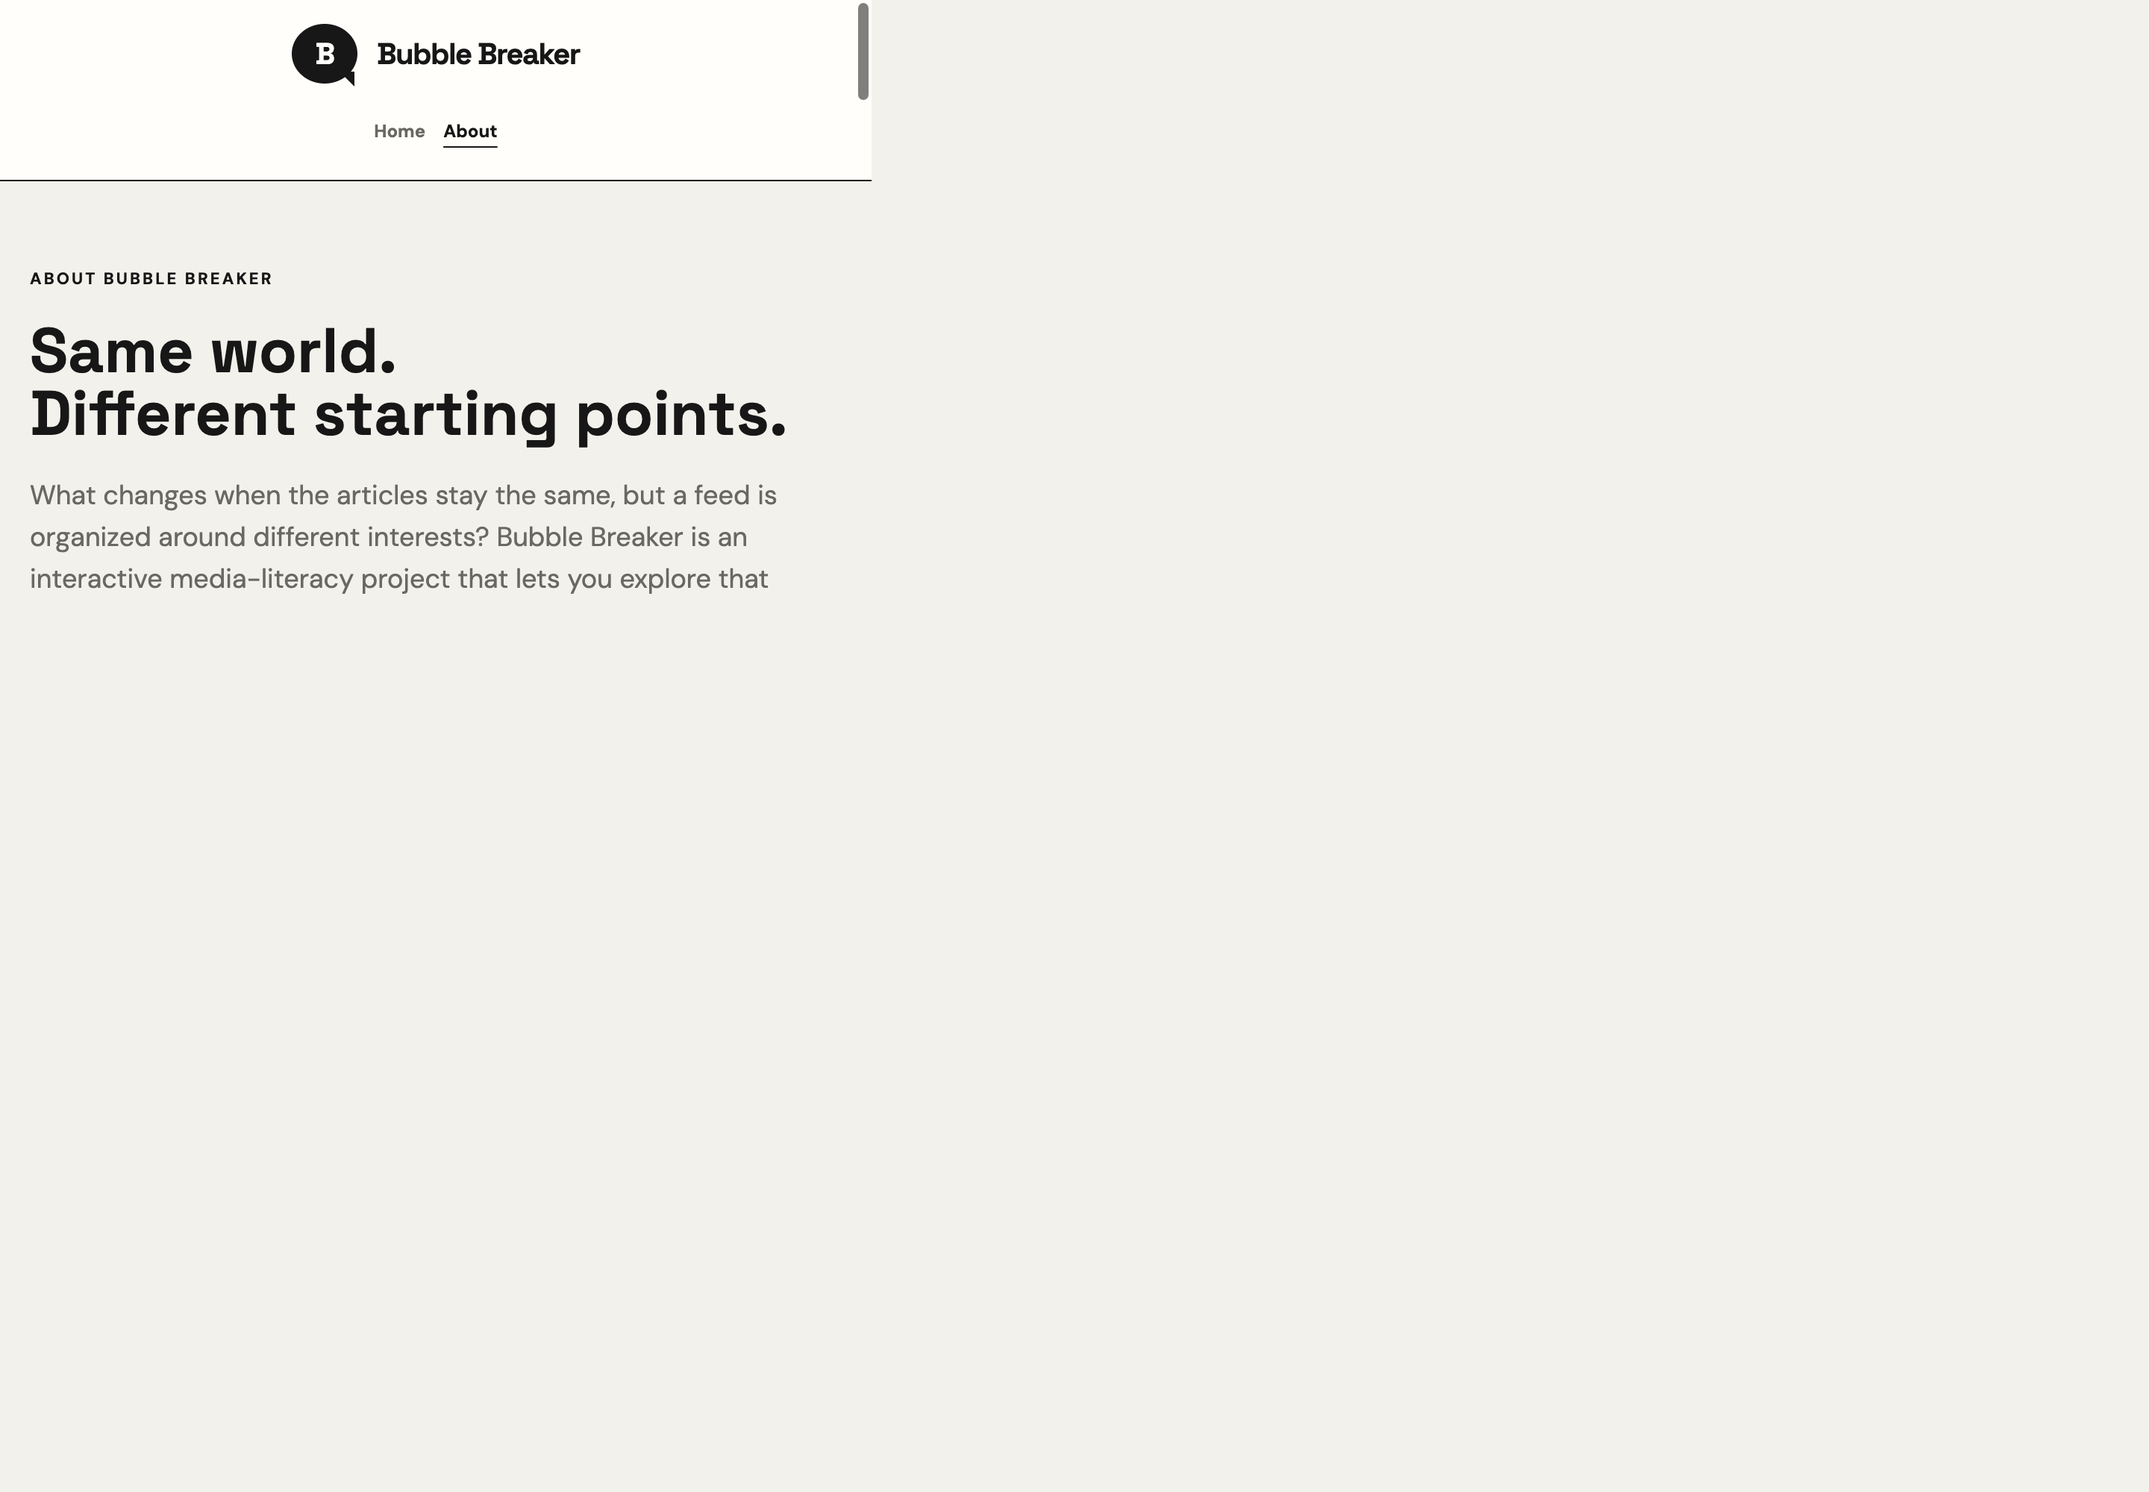
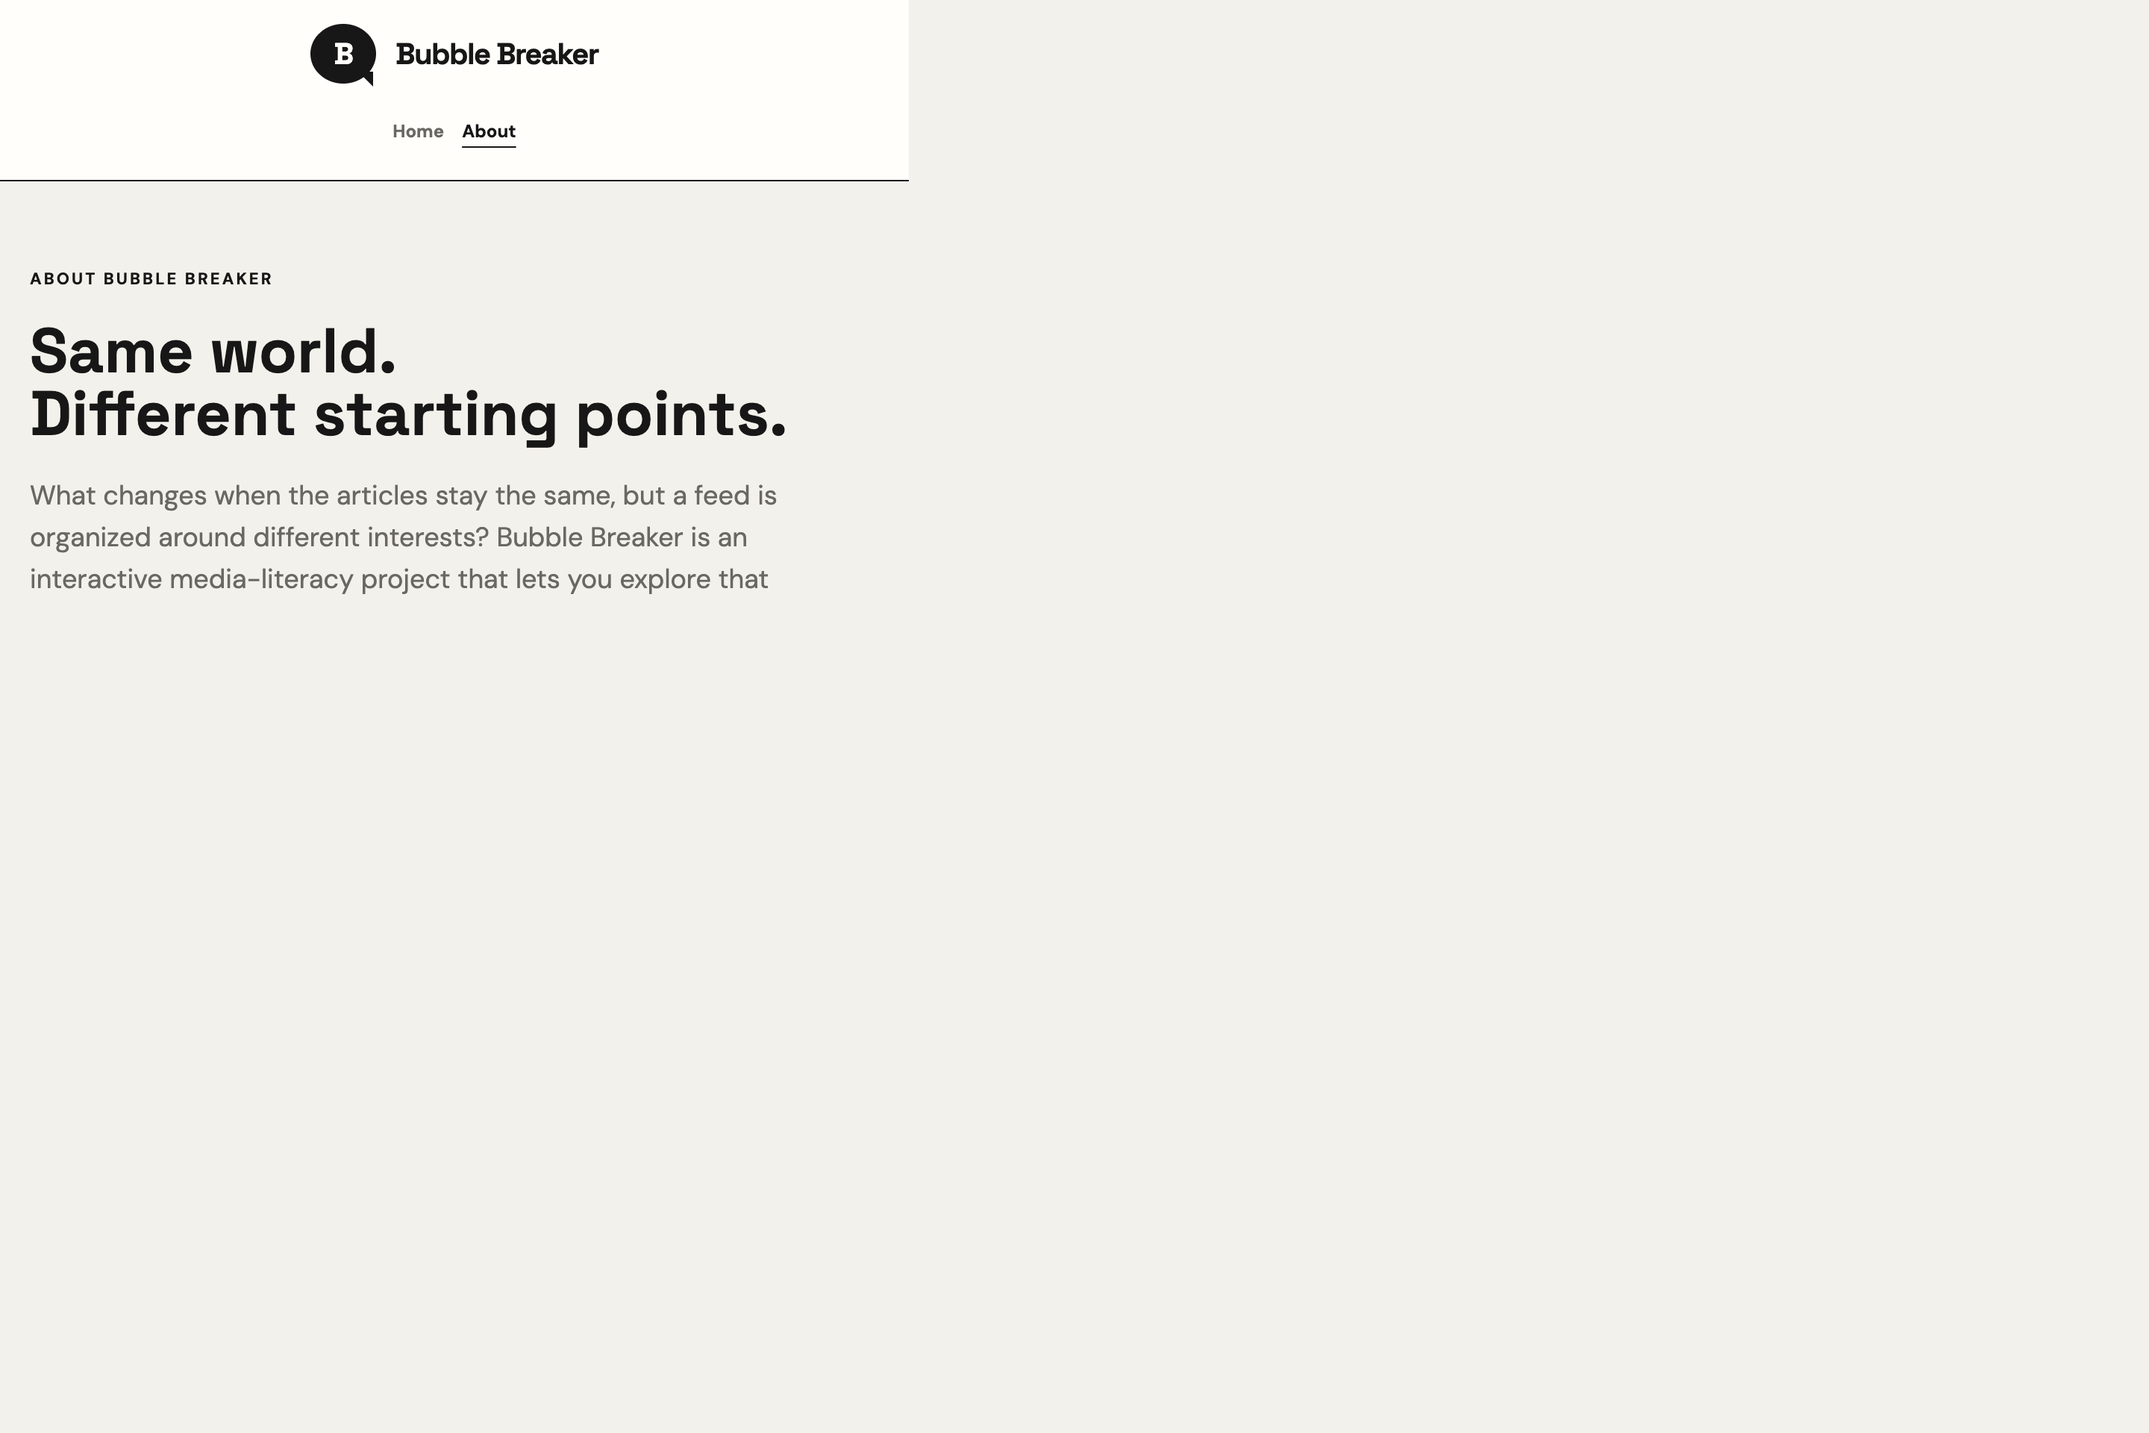
updated readme.md

Changed region(s): [[0.0, 0.1875, 0.375, 0.4062], [0.125, 0.0, 0.2812, 0.125], [0.375, 0.0, 0.4062, 0.0625]]

diff --git a/README.md b/README.md
@@ -2,65 +2,165 @@
 
 **An interactive media-literacy experience about personalized feeds and information bubbles.**
 
-Bubble Breaker is a student portfolio project that makes recommendation patterns visible. Explore one fixed news dataset through four personas, inspect how each role's interests shape its feed, and compare that experience with a separate personal feed.
+Bubble Breaker is a browser-based media-literacy experience for examining how interest-driven ranking shapes the news people encounter. Using one fixed collection of 500 articles, it compares four role-based feeds, keeps each role's reading profile independent, and provides a separate personal feed.
 
-The interface is in English. Recommendation rules are deterministic and explained in the product; no account or backend is required.
+The product combines an interactive recommendation model, context-scoped reading analysis, and a guided way to explore content beyond a selected role. Its rules are deterministic and inspectable; it requires no account or backend.
 
-## Experience
+## Contents
 
-1. **Choose a role.** Start with AI Explorer, Startup Builder, Security Specialist, or Digital Creator.
-2. **Explore its information bubble.** Each role has its own My Feed, My Analysis, and Break the Bubble views. Reading history and interest scores are isolated by role; switching roles never merges their profiles.
-3. **Compare perspectives.** Inspect which categories appear in a role's feed and compare its recommendations with another role using the same dataset.
-4. **Try a personal feed.** Build My Own Feed creates a separate personal context with its own reading history and recommendations.
-5. **Learn about the experiment.** The top-level About page explains the project's purpose, model, and limitations.
+- [User Flow](#user-flow)
+- [Key Features](#key-features)
+- [How It Works](#how-it-works)
+- [Tech Stack](#tech-stack)
+- [Project Structure](#project-structure)
+- [Run Locally](#run-locally)
+- [Data, Privacy, and Limitations](#data-privacy-and-limitations)
 
-## Screenshots
+## User Flow
 
-### Home: choose a perspective
+```mermaid
+flowchart TD
+    Home[Home: choose a role] --> Role[Enter role workspace]
+    Role --> Feed[My Feed: role-ranked stories]
+    Feed --> Analysis[My Analysis: this role only]
+    Feed --> Break[Break the Bubble: move beyond role interests]
+    Feed --> Compare[Compare another role]
+    Feed --> Personal[Build My Own Feed]
+    Personal --> PersonalFeed[Personal feed]
+    PersonalFeed --> PersonalAnalysis[My Analysis: personal context]
+    PersonalFeed --> PersonalBreak[Break My Bubble]
+    Home --> About[About: purpose, method, and limits]
+    Role --> Home
+```
 
-The homepage puts the four role entry points first. Select a card to enter that role's independent experience.
+The global navigation contains **Home** and **About**. Once a role or the personal context is active, **My Feed**, **My Analysis**, and **Break the Bubble** appear together as that context's sub-navigation.
 
-![Bubble Breaker homepage with four role cards](docs/screenshots/home.png)
+## Key Features
 
-### Persona feed: inspect one role's bubble
+### Home: role selection
 
-The role page pairs its character and interests with a feed explanation, Bubble Score, category controls, and recommendations.
+The homepage introduces the four available perspectives. Selecting a role opens its workspace; switching roles changes the active lens without merging its reading profile with another role.
 
-![AI Explorer feed with role-specific bubble details and articles](docs/screenshots/persona-feed.png)
+![Homepage with four selectable role cards](docs/screenshots/home.png)
 
-### About: project purpose and methodology
+### Persona workspaces
 
-The About page introduces the question, persona model, interaction flow, measurement limits, and local data handling.
+All roles use the same articles, but their interests determine which stories are surfaced first. Each role has an independent My Feed, My Analysis, and Break the Bubble experience.
 
-![Bubble Breaker About page](docs/screenshots/about.png)
-
-## Navigation and Activity
-
-The global navigation contains **Home** and **About**. After entering a persona or personal context, a secondary navigation group appears with **My Feed**, **My Analysis**, and **Break the Bubble**.
-
-Each context keeps independent reading activity. Opening and saving stories while exploring AI Explorer changes only that role's profile. Switching to Startup Builder shows its own feed and analysis. The personal feed is separate from every persona. Saved status is shared across contexts, while interest points are attributed to the context where an article was saved.
-
-## Recommendation Model
-
-The project uses fixed, inspectable rules rather than a live recommender or AI model.
-
-| Context | Behavior |
+| AI Explorer | Startup Builder |
 | --- | --- |
-| Persona feed | Repeats a 70/30 mix: seven stories from that persona's interest categories and three from other categories. |
+| ![AI Explorer feed and information-bubble overview](docs/screenshots/ai-explorer.png) | ![Startup Builder feed and information-bubble overview](docs/screenshots/startup-builder.png) |
+
+| Security Specialist | Digital Creator |
+| --- | --- |
+| ![Security Specialist feed and information-bubble overview](docs/screenshots/security-specialist.png) | ![Digital Creator feed and information-bubble overview](docs/screenshots/digital-creator.png) |
+
+### My Analysis: role-scoped reading profile
+
+My Analysis summarizes article opens, saves, category interest points, recent reading, and Bubble Score for the active role. Each persona's profile is kept separate from the others and from the personal context.
+
+![My Analysis showing the active role's activity and Bubble Score](docs/screenshots/my-analysis.png)
+
+### Break the Bubble: go beyond role interests
+
+The role-specific break feed starts from the active persona's interests, then allocates recommendations to less-read and remaining categories. Its purpose is to make the role's ranking boundary visible and offer a concrete alternative.
+
+![Break the Bubble recommendations for an active persona](docs/screenshots/break-bubble.png)
+
+### My Own Feed: a separate personal context
+
+My Own Feed builds a separate reading profile from the reader's own opens and saves. It does not inherit the most recently selected persona's interest scores.
+
+![Personal feed with its own recommendation profile](docs/screenshots/personal-feed.png)
+
+### About: purpose, method, and limitations
+
+The About page explains the central question, the four personas, the user flow, the Bubble Score, data handling, and what this simulation does not measure.
+
+![About page explaining the project and its methodology](docs/screenshots/about.png)
+
+## How It Works
+
+Each role has separate reading history and interest scores. Switching roles does not merge profiles. The personal context is separate from all personas. Saved status is shared across contexts, while interest points are attributed to the context where an article was saved. Legacy browser activity is migrated to the personal context.
+
+| Context | Recommendation behavior |
+| --- | --- |
+| Persona feed | Repeats a 70/30 mix: seven stories from the role's interest categories and three from other categories. |
 | Personal feed, before five interactions | Rotates across categories to establish an initial mix. |
 | Personal feed, after five interactions | Prioritizes the two highest-scoring categories using the 70/30 pattern. Opens add one interest point; saving adds two; unsaving removes those two points. |
-| Break the Bubble in a persona | Uses that role's categories as familiar topics, then targets a 40/40/20 mix of familiar, less-read, and remaining categories. |
-| Break the Bubble in the personal context | Uses the personal profile's top categories. Before five opens, it falls back to a balanced category rotation. |
+| Break the Bubble in a role | Uses that role's categories as familiar topics, then targets a 40/40/20 mix of familiar, less-read, and remaining categories. |
+| Break My Bubble in the personal context | Uses the personal profile's top categories. Before five opens, it falls back to a balanced category rotation. |
 
-The **Bubble Score** looks at the latest ten article opens in the current context and reports the largest category share as a percentage. At least five opens are required. A concentration notice appears at 60 or above. Reopening a story counts as another reading event. This measures category concentration, not article quality or viewpoint diversity.
+The **Bubble Score** uses the latest ten article opens in the active context and reports the largest category share. At least five opens are needed. A concentration notice appears at 60 or above. Reopening a story counts as another event. The score measures topic concentration, not article quality, factual accuracy, or viewpoint diversity.
 
-## Technology
+## Tech Stack
 
-- React 19 for the interactive interface
-- Vite 8 for local development and production builds
-- JavaScript ES modules and CSS
-- Node.js built-in test runner and Oxlint
-- Browser `localStorage` for context-scoped reading histories and saved stories
+| Layer | Technology | Role in the project |
+| --- | --- | --- |
+| UI | React 19, JSX, CSS | Persona workspaces, navigation, analysis views, and responsive presentation. |
+| Development and build | Vite 8, `@vitejs/plugin-react` | Local development server, hot updates, and static production builds. |
+| Application logic | JavaScript ES modules | Deterministic feed ordering, category blending, Bubble Score, and context-scoped state. |
+| Dataset | Local JSON | A fixed collection of 500 articles and four persona definitions. |
+| Persistence | Browser `localStorage` | Reading history, per-context interest scores, and saved article state. |
+| Quality checks | Node.js `node:test`, Oxlint | Unit tests for recommendation/storage behavior and static linting. |
+
+The production output is a static site. There is no API server, database, account system, or AI dependency.
+
+## Project Structure
+
+```text
+.
+├── docs/
+│   └── screenshots/
+│       ├── about.png
+│       ├── ai-explorer.png
+│       ├── break-bubble.png
+│       ├── digital-creator.png
+│       ├── home.png
+│       ├── my-analysis.png
+│       ├── persona-feed.png
+│       ├── personal-feed.png
+│       ├── security-specialist.png
+│       └── startup-builder.png
+├── public/
+│   ├── bubble-breaker.svg
+│   └── icons.svg
+├── src/
+│   ├── App.jsx                  Context state, navigation, and feed composition
+│   ├── main.jsx                 React entry point
+│   ├── index.css                Base document styles
+│   ├── styles.css               Application and responsive styles
+│   ├── assets/
+│   │   ├── ai-explorer.gif
+│   │   ├── bd041164212061.5acb40715dc90.gif
+│   │   ├── digital-creator.gif
+│   │   ├── hero.png
+│   │   ├── security-specialist.gif
+│   │   ├── startup-builder.gif
+│   │   ├── react.svg
+│   │   └── vite.svg
+│   ├── components/
+│   │   ├── AnalysisPage.jsx     Context-scoped activity and score analysis
+│   │   ├── BubbleMeter.jsx      Bubble Score and concentration feedback
+│   │   ├── NewsCard.jsx         Article preview, save action, and source link
+│   │   ├── PersonaBubble.jsx    Role-bubble explanation and comparison
+│   │   └── PersonaCard.jsx      Selectable role card and portrait
+│   ├── data/
+│   │   ├── newsData.json        Fixed 500-article dataset
+│   │   └── personas.js          Role interests, keywords, and descriptions
+│   └── utils/
+│       ├── bubbleScore.js       Category distribution and Bubble Score
+│       ├── recommendation.js   Deterministic feed ordering and blending
+│       ├── recommendation.test.js
+│       └── storage.js           Context-scoped activity and legacy migration
+├── index.html                   Page title, description, and social metadata
+├── .gitignore
+├── .nvmrc
+├── .oxlintrc.json
+├── package.json                 Scripts and dependencies
+├── package-lock.json
+└── vite.config.js               Vite configuration
+```
 
 ## Run Locally
 
@@ -71,7 +171,7 @@ npm install
 npm run dev
 ```
 
-Open the local URL printed by Vite. To verify a production build:
+Open the local URL printed by Vite. Run checks and create a production build with:
 
 ```bash
 npm test
@@ -80,36 +180,13 @@ npm run build
 npm run preview
 ```
 
-The production-ready static site is generated in `dist/` and can be deployed to any static hosting provider.
+The static production site is generated in `dist/` and can be deployed to any static hosting provider.
 
-## Project Structure
+## Data, Privacy, and Limitations
 
-```text
-src/
-	App.jsx                    Context state, navigation, and feed composition
-	components/
-		AnalysisPage.jsx          Context-scoped reading and interest analysis
-		BubbleMeter.jsx           Bubble Score and reading concentration
-		NewsCard.jsx              Article preview, save action, and source link
-		PersonaBubble.jsx         Role-bubble explanation and feed comparison
-		PersonaCard.jsx           Selectable persona card and portrait
-	data/
-		newsData.json             Fixed article dataset
-		personas.js               Persona definitions, interests, and keywords
-	utils/
-		bubbleScore.js            Category distribution and Bubble Score
-		recommendation.js         Feed ordering and category blending
-		storage.js                Validated context activity and legacy migration
-```
-
-## Data and Privacy
-
-- The app uses a fixed local article dataset; it does not fetch a live news feed.
-- Reading history and interest scores for each role and the personal context stay in this browser under `bubbleBreakerUserData`.
-- There is no sign-in, application server, analytics service, or AI service.
-- Article links open their original sources. When an article has no supplied cover image, the card may request a preview image from Microlink.
+- The app uses a fixed local dataset; it does not fetch a live news feed.
+- Reading history, interest scores, and saved-story state are stored in this browser under `bubbleBreakerUserData`.
+- There is no sign-in, application server, analytics service, or AI recommender.
+- Article links open their original sources. When no cover image is supplied, a preview image may be requested from Microlink.
 - All local progress can be cleared from **My Analysis** with **Reset My Data**.
-
-## Scope
-
-Bubble Breaker is an educational simulation. Its feeds model topic concentration and ranking order; they do not claim to determine the political, factual, or ideological diversity of an article set. The fixed dataset and recommendation rules are intentionally bounded so the experience can be inspected and discussed in a classroom.
+- Category balance is a teaching proxy. The project does not assess factual quality or the diversity of viewpoints within a category.
